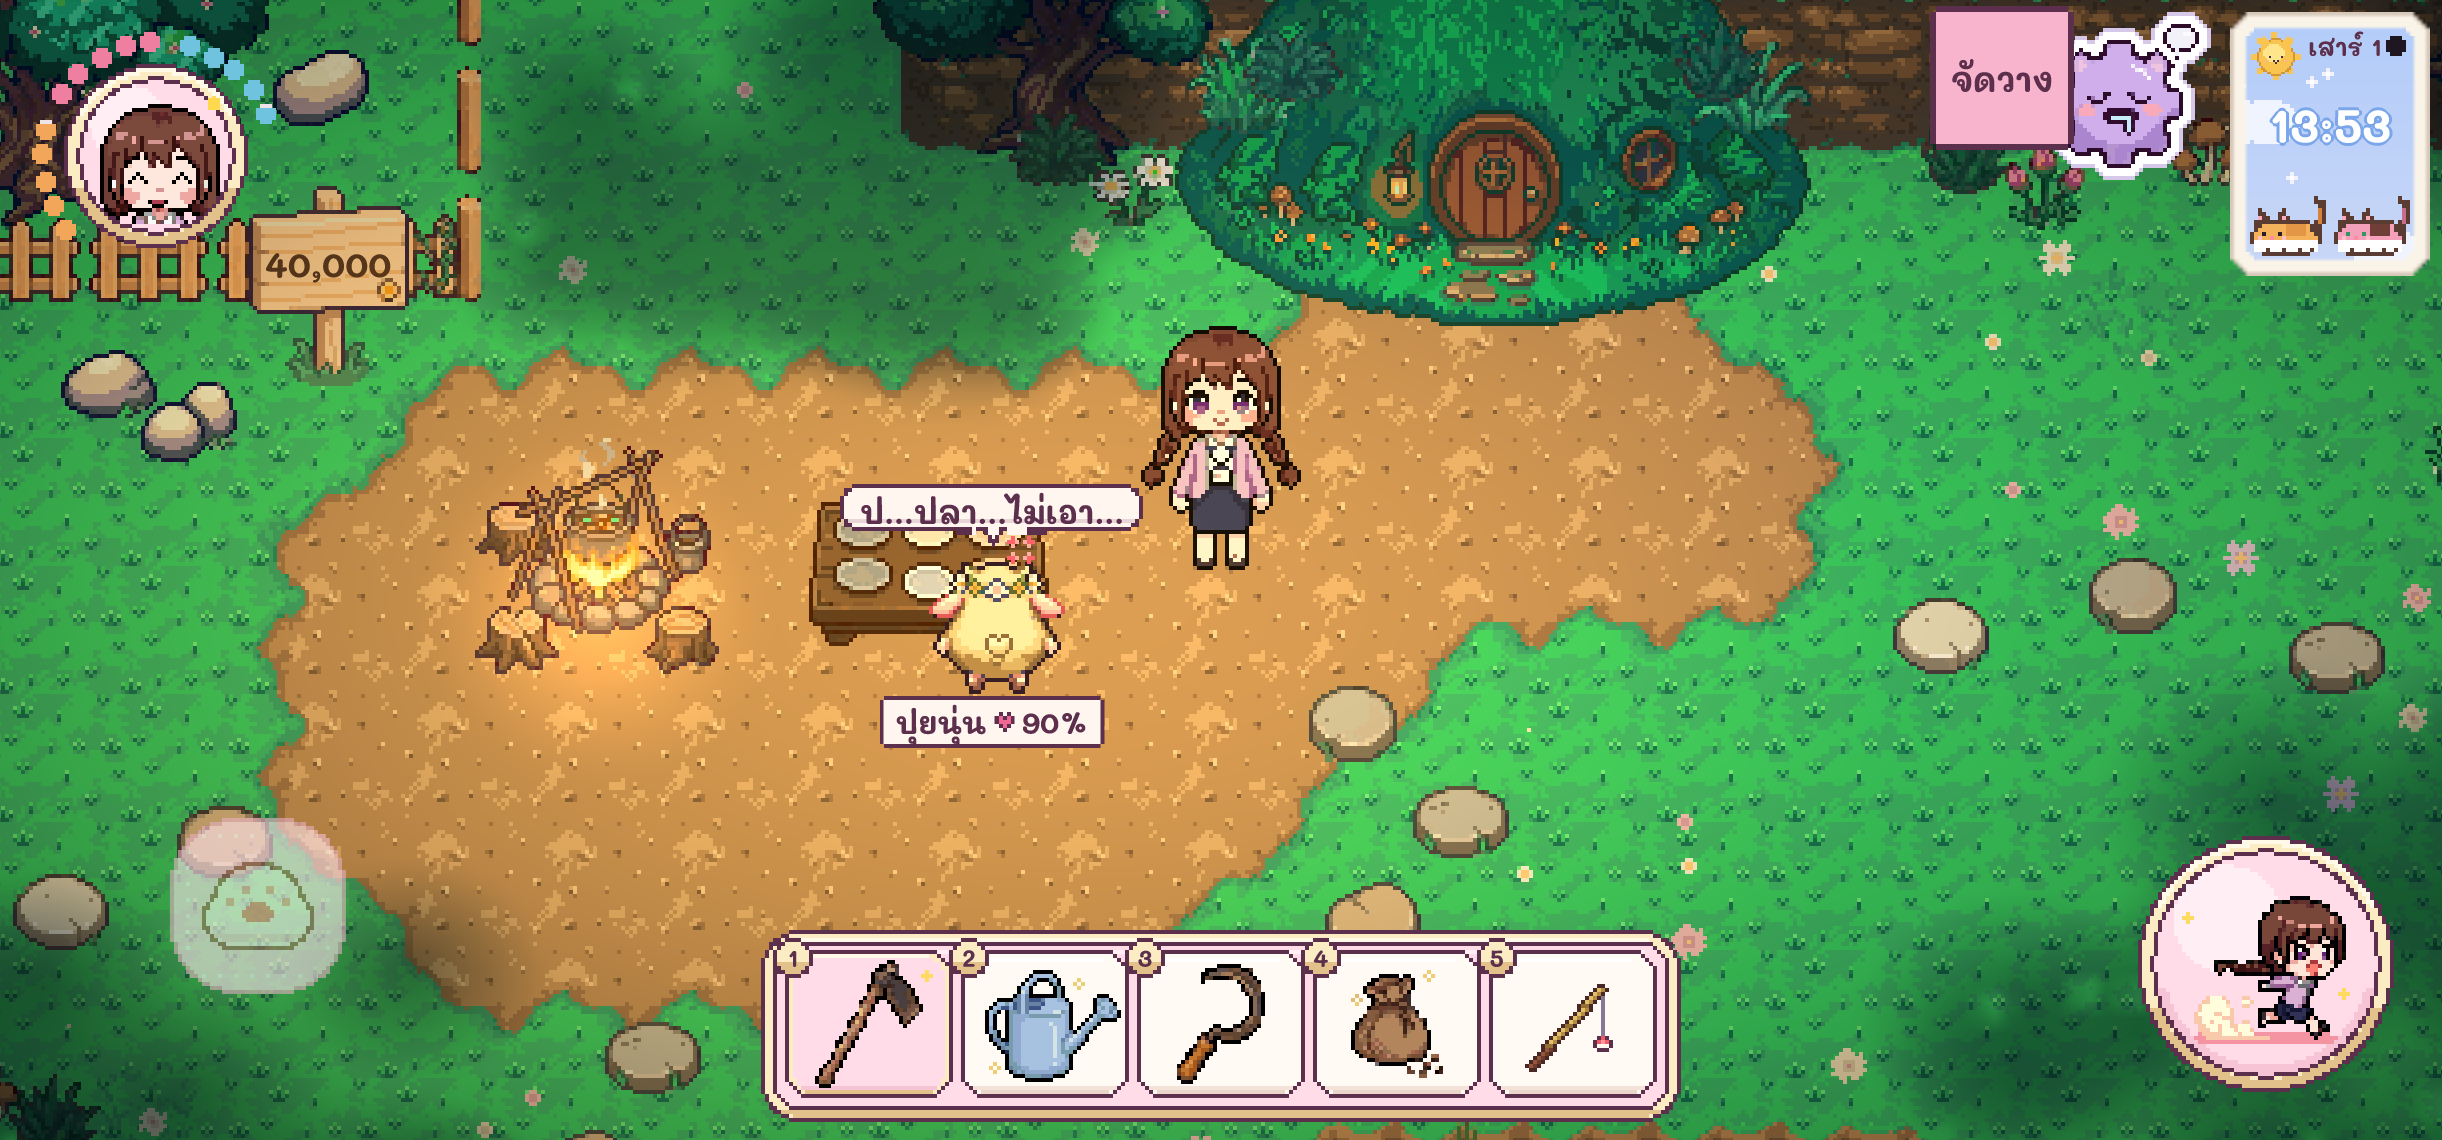
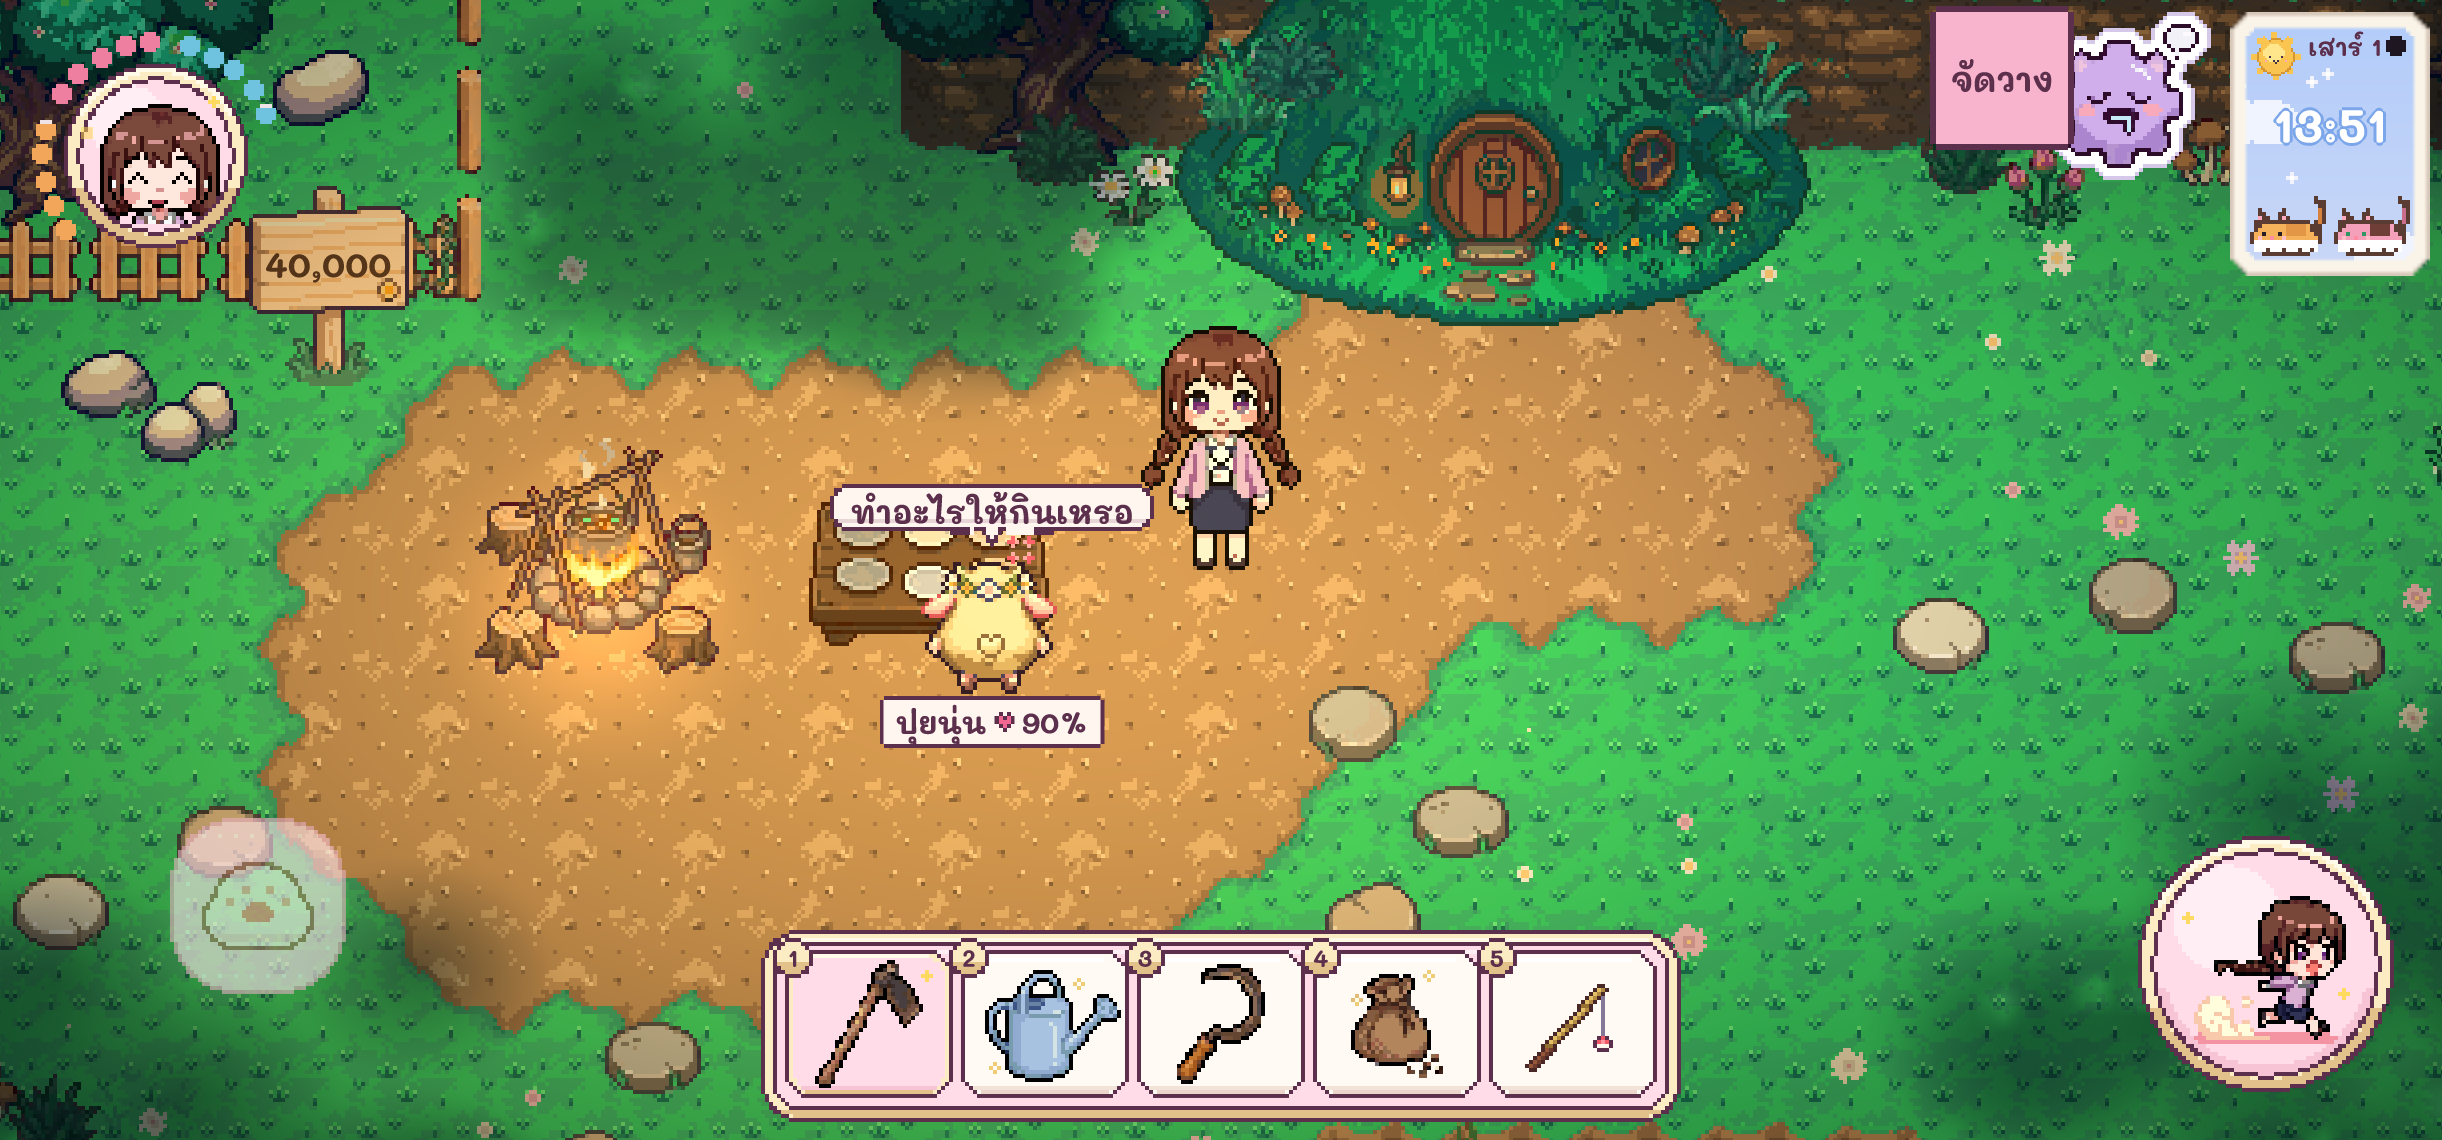
หอคอยอาหารกลับไปใช้จานบางแบบเดิมที่โยกไปมา (ผู้ใช้เลือก) ภาพอาหารจิ๋วใช้บนจานถาด

diff --git a/src/entities/Monster.ts b/src/entities/Monster.ts
@@ -9,9 +9,12 @@ type Point = { x: number; y: number };
 
 const ARRIVE_PX = 1.5;
 const FX_DEPTH_LIFT = 100;
-/** หอคอยอาหารเหนือหัว: จานแล้วอาหารสลับกัน แต่ละชั้นสูงตามภาพอาหารจริง ขอบจานกับอาหารซ้อนกัน 1 พิกเซล */
-const PLATE_HEIGHT_PX = 4;
-const LAYER_OVERLAP_PX = 1;
+/**
+ * หอคอยอาหารเหนือหัว: จานขาวบาง ๆ กับกองอาหารเล็ก ชั้นละ 4 พิกเซล โยกไปมา
+ * ผู้ใช้เลือกแบบจานบางเดิม (6 พ.ย. 2026) แทนภาพอาหารจิ๋วที่ซ้อนแล้วดูแข็ง · ภาพอาหารจิ๋วใช้บนจานถาดเท่านั้น
+ */
+const TOWER_STEP_PX = 4;
+const TOWER_FOOD_LIFT = 3;
 const TOWER_GAP_PX = 2;
 /** ฟองความคิด: มุมซ้ายของฟองห่างกลางตัวเท่านี้ จุดลากซ้ายล่างอยู่เหนือหัว ไอคอนอาหารกลางที่ (13, 13) ของฟอง */
 const THOUGHT_LEFT_PX = -3;
@@ -360,15 +363,13 @@ export class Monster {
     const y = Math.round(this.position.y);
     this.sprite.setPosition(x, y).setDepth(y);
     const base = y - this.art.height - TOWER_GAP_PX;
-    let plateY = base;
     this.tower.forEach((layer, index) => {
       const wobble = Math.max(-TOWER_WOBBLE_MAX, Math.min(TOWER_WOBBLE_MAX, Math.round(Math.sin(time / TOWER_WOBBLE_MS + index * 0.9) * index * 0.5)));
-      const foodY = plateY - PLATE_HEIGHT_PX + LAYER_OVERLAP_PX;
+      const plateY = base - index * TOWER_STEP_PX;
       layer.plate.setPosition(x + wobble, plateY).setDepth(y + 1 + index * 0.01);
-      layer.food.setPosition(x + wobble, foodY).setDepth(y + 1.005 + index * 0.01);
-      plateY = foodY - layer.food.height + LAYER_OVERLAP_PX;
+      layer.food.setPosition(x + wobble, plateY - TOWER_FOOD_LIFT + 1).setDepth(y + 1.005 + index * 0.01);
     });
-    this.towerHeight = base - plateY;
+    this.towerHeight = this.tower.length > 0 ? this.tower.length * TOWER_STEP_PX + TOWER_FOOD_LIFT : 0;
     this.syncThought(x, time);
   }
 

diff --git a/src/scenes/visits.ts b/src/scenes/visits.ts
@@ -26,7 +26,7 @@ import {
   type Reaction,
 } from '../systems/monsters';
 import { servingsOnTray } from '../systems/tray';
-import { foodArtKey, type MonsterArt } from './monsterArt';
+import { foodMoundKey, type MonsterArt } from './monsterArt';
 import type { TrayView } from './trayView';
 
 type Point = { x: number; y: number };
@@ -331,7 +331,8 @@ export class Visits {
       gameState.setWorld(result.world);
       if (result.taken === 0) continue;
       const recipe = parseDish(take.item).recipe;
-      monster.addToTower(foodArtKey(this.scene, recipe, recipes[recipe]?.icon), result.taken);
+      // หอคอยใช้กองอาหารเล็กบนจานบางแบบเดิม (ผู้ใช้เลือก 6 พ.ย. 2026) ภาพอาหารจิ๋วใช้บนจานถาด
+      monster.addToTower(foodMoundKey(this.scene, recipe, recipes[recipe]?.icon), result.taken);
       monster.hearts(take.reaction === 'neutral' ? 0 : 1);
       if (take.reaction === 'favourite' || take.reaction === 'signature') monster.sparkles();
       if (take.reaction === 'favourite') this.say(run, 'favourite', true);

diff --git a/docs/progress.md b/docs/progress.md
@@ -63,6 +63,7 @@
 | 4 พ.ย. 2026 | HUD และบั๊กรอบ 4 พ.ย. | ตาม `docs/handoff/prompt_ui_bugs_2026-11-04.md` · ปุ่มกระทำปุ่มเดียวตามของที่ถือ · ทุกท่าล็อกการเดิน กดซ้ำเพื่อหยุด · ตกปลาอัตโนมัติรอ 1.5 เท่า ติด 65% มีสวิตช์ใช้เหยื่อเดิมต่อ · เมล็ดแถม 10% ราคาเมล็ดพืชเริ่มเกมชั่วคราว · ปุ่มแปลงผักเป็นเมล็ดยังอยู่จนกว่าร้านจะมาใน M6 · จีโอ v2 เดินสี่ขาแทนกระโดด |
 | 4 พ.ย. 2026 | ผลลองรอบ HUD และทำหลายจาน | ตกปลาอัตโนมัติพลาด 4 จาก 4 ครั้ง แก้นาฬิกาสองตัวที่แข่งกัน โอกาสยังเป็น 65% · อาบน้ำเหลือ 15 นาทีเกม สะอาด +60 เท่าเดิม · ทำอาหารหลายจานตาม `docs/handoff/prompt_cook_batch_2026-11-04.md` เซฟเวอร์ชัน 7 · ป้ายปุ่มกระทำเป็นแคปซูล · เปลี่ยนชื่อเป็นถังหูลู่สตรอว์เบอร์รี |
 | 5 พ.ย. 2026 | เทสต์ iPhone ค้าง | สาเหตุคือ WebKit ของ Playwright เสียบริบท WebGL ตอนเปิดเกม (การ์ดจอเต็มเมื่อเปิดหน้าต่อกันหลายหน้า) · เกมโหลดหน้าใหม่เองหนึ่งครั้งถ้าเสียก่อนเปิดเสร็จ · โปรเจกต์ iphone-landscape รันข้อที่ล้มใหม่ 1 ครั้งในเครื่อง (ขึ้นว่า flaky) · รายการเสียงที่มีกลุ่มที่เกมไม่รู้จักถูกข้าม ไม่ทำให้เกมเปิดไม่ขึ้น |
+| 6 พ.ย. 2026 | หอคอยอาหาร | ผู้ใช้ชอบจานบางแบบเดิมที่โยกไปมามากกว่าหอคอยภาพอาหารจิ๋ว (ดูแข็ง) จึงกลับไปใช้จานบางกับกองอาหารเล็กบนหอคอย ส่วนบนจานถาดยังใช้ภาพอาหารจิ๋ว |
 | 6 พ.ย. 2026 | ภาพ M7a ชุดแทนของชั่วคราว | อาหารจิ๋ว 32 เมนู ฟองความคิดมีไอคอนอาหาร เส้นเลือดงอน ไอคอนปุ่มวางอาหาร ตาม `docs/m7a_art_2026-11-06.md` · ถาด 6 และ 10 จานโหลดในฉากแล้วรอระบบซื้อถาด · ภาพหน้าจอมือถือใน `docs/previews/code/m7a_*.png` |
 | 6 พ.ย. 2026 | แผน M7b | เครื่องดื่มโปรดตามร่างที่ผู้ใช้อนุมัติ (ใช้ 4 เครื่องดื่มที่มี เปลี่ยนเป็นเครื่องดื่มจากสัตว์เลี้ยงได้ใน M8) · เซ็ต = เมนูโปรด + เครื่องดื่มโปรดของตัวนั้น ×1.5 (ชั่วคราว) · ตัวที่สนิทนั่งกินที่ลานหน้าบ้านจนกว่าร้านจะเปิด · ใส่มุกมิก (ภาพส่งมา 6 พ.ย.) เพิ่มจากแผนเดิม |
 | 6 พ.ย. 2026 | ปิด M7a | ผู้ใช้อนุมัติ M7a · ค่าชั่วคราวที่ฝั่งโค้ดเติม (ค่าฐานแรงก์ ราคาผักตามดาว ดาวน้ำตาล 30 ราคาปุ๋ย) ยังเป็นค่าชั่วคราว ปรับใน M10 |
